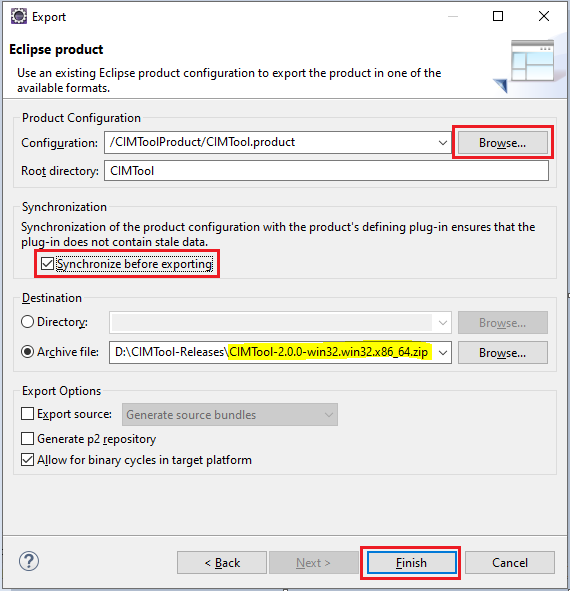
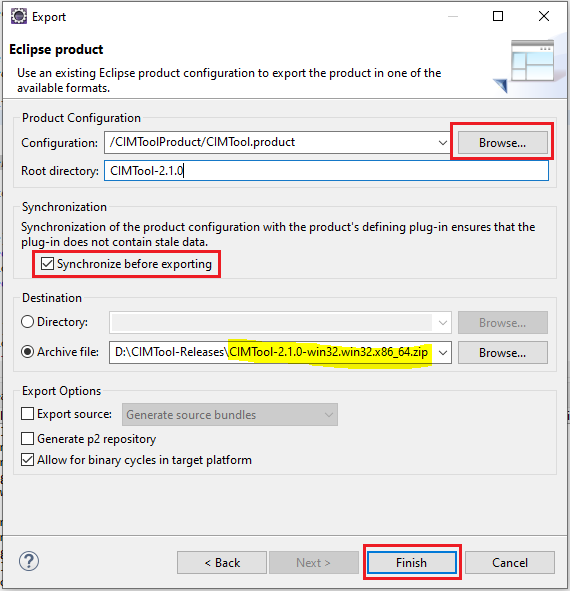
Updates to the package and deploy documentation.

diff --git a/docs/developers/package-deploy.md b/docs/developers/package-deploy.md
@@ -44,7 +44,7 @@ The **Export** dialog provides two destination options for exporting the **CIMTo
 
 The configuration settings highlighted in the next screenshot are for exporting as an archive. A couple of items to highlight:
 
-1. The **Root directory** field is required and specifies the name of the directory that will appear within the archive file and which will serve as the root directory when extracting. For the purposes of CIMTool the naming convention should be adhered to for each release:  ```CIMTool```
+1. The **Root directory** field is required and specifies the name of the directory that will appear within the archive file and which will serve as the root directory when extracting. For the purposes of CIMTool a naming convention that includes the semantic version should be matched to that for the release being deployed:  ```CIMTool-x.x.x``` (e.g. CIMTool-2.1.0)
 
 2. The **"Synchronize before exporting"** option should be checked.
 
